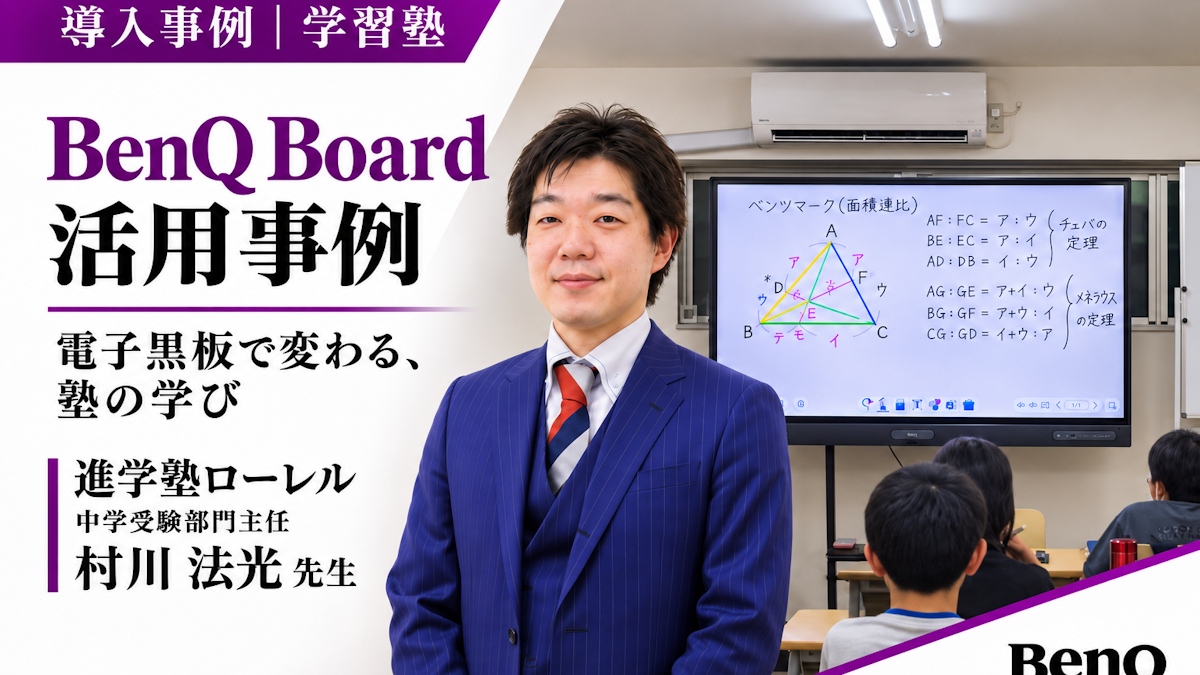
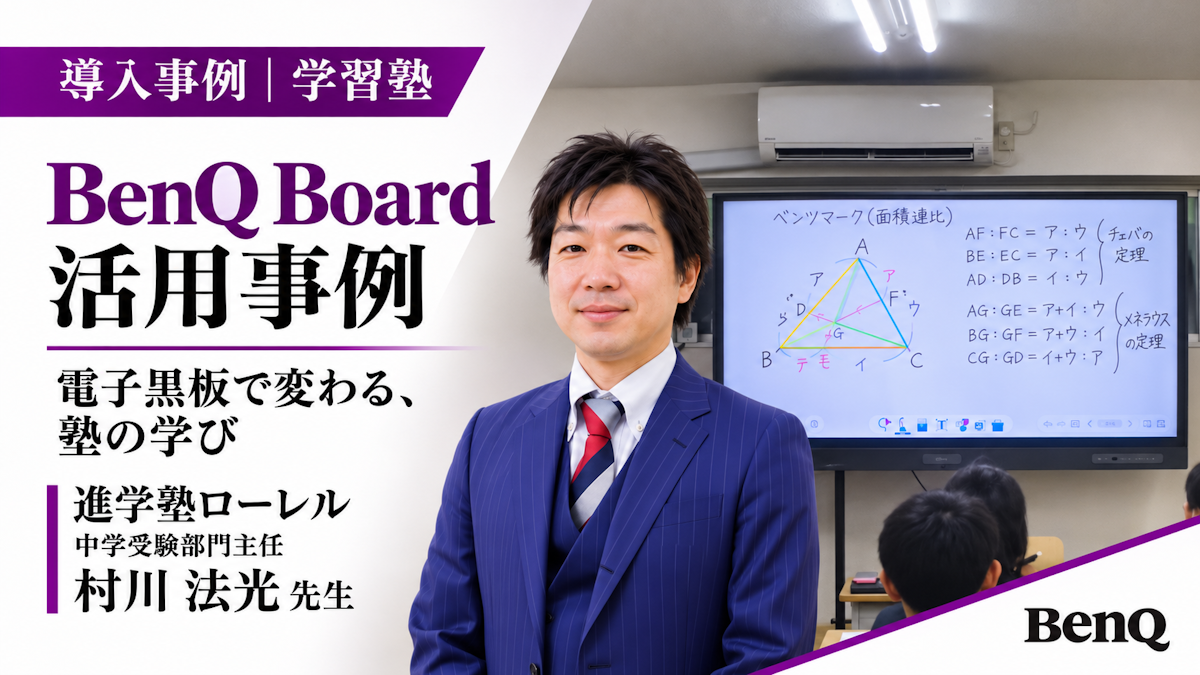
Update microCMS content

diff --git a/article/index.html b/article/index.html
@@ -80,7 +80,7 @@
 
       <article class="kb-art-card" data-cats="導入事例">
         <a href="/columns/benQboard-laurel-interview/">
-          <figure><img src="https://images.microcms-assets.io/assets/55c151aecffc4472b4f77af5a6755e38/a4c234d716934939bca8565a18d5fc4a/%E9%80%B2%E5%AD%A6%E5%A1%BE%E3%81%AEBenQ%E9%9B%BB%E5%AD%90%E9%BB%92%E6%9D%BF%E6%B4%BB%E7%94%A8%E4%BA%8B%E4%BE%8B.png?fit=crop&w=480&h=270&q=80" alt="学習塾の電子黒板BenQ Board導入事例｜進学塾ローレル" loading="lazy" decoding="async"></figure>
+          <figure><img src="https://images.microcms-assets.io/assets/55c151aecffc4472b4f77af5a6755e38/f52d787875274364b55c02395eb95ea3/%E9%9B%BB%E5%AD%90%E9%BB%92%E6%9D%BF%E3%81%A7%E5%A4%89%E3%82%8F%E3%82%8B%E5%A1%BE%E3%81%AE%E5%AD%A6%E3%81%B3.png?fit=crop&w=480&h=270&q=80" alt="学習塾の電子黒板BenQ Board導入事例｜進学塾ローレル" loading="lazy" decoding="async"></figure>
           <div class="kb-art-card__body">
             <div class="kb-art-card__meta"><span class="cat">導入事例</span><time>2026.11.03</time></div>
             <h2>学習塾の電子黒板BenQ Board導入事例｜進学塾ローレル</h2>
